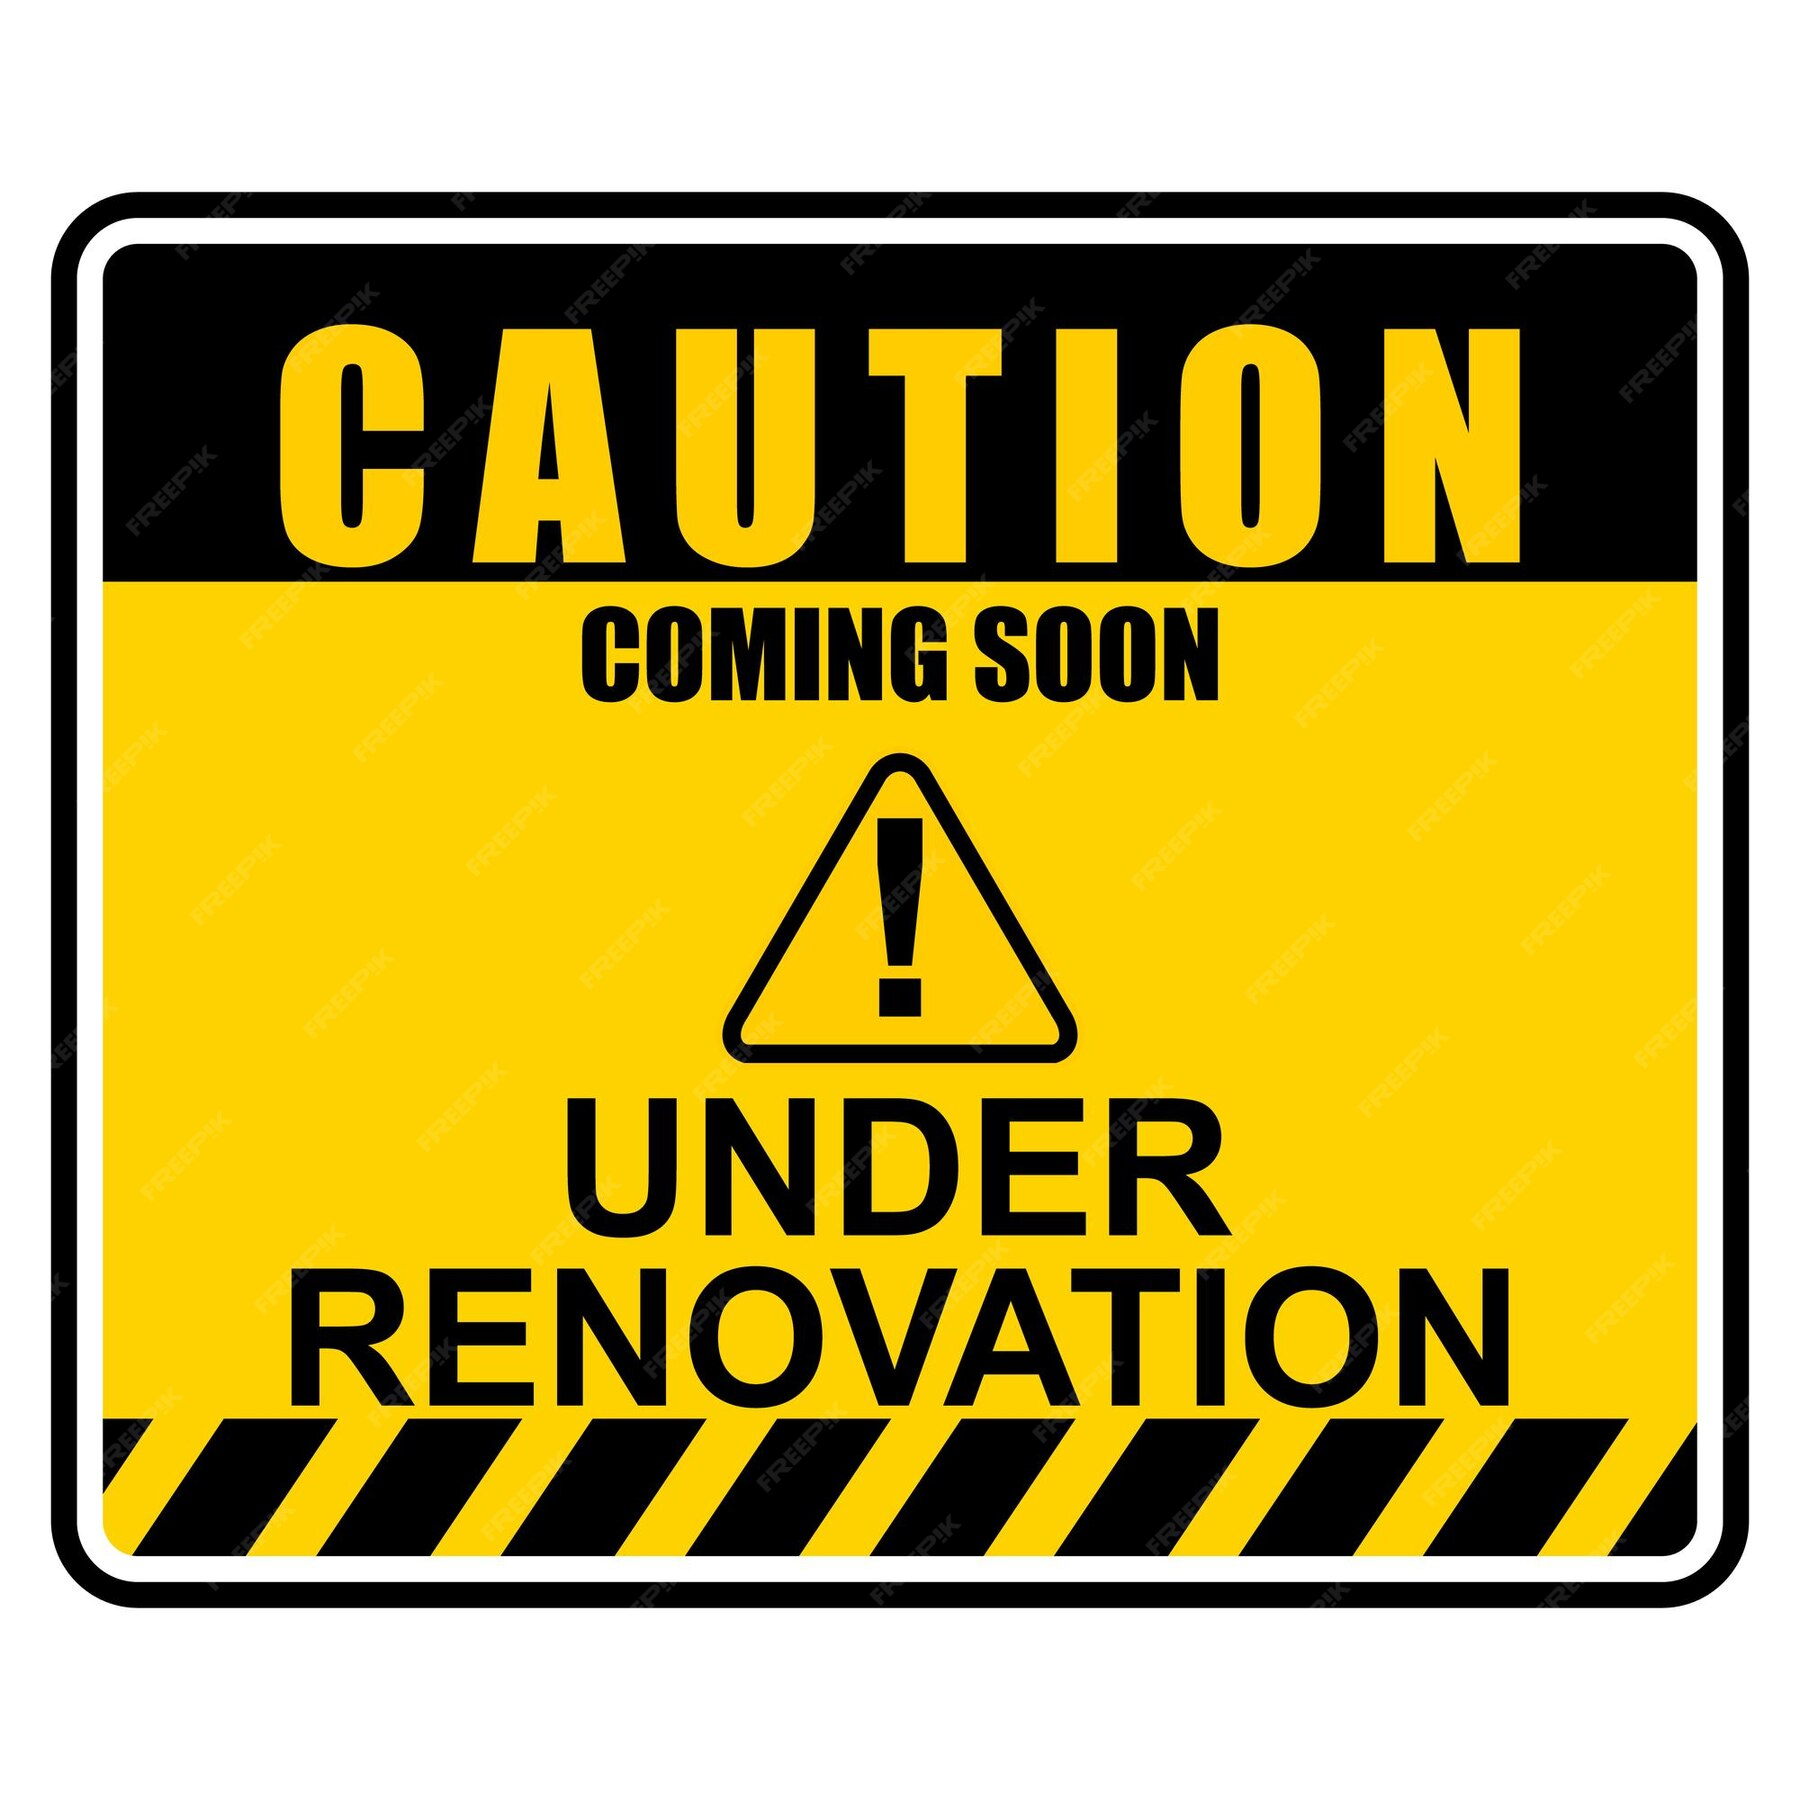
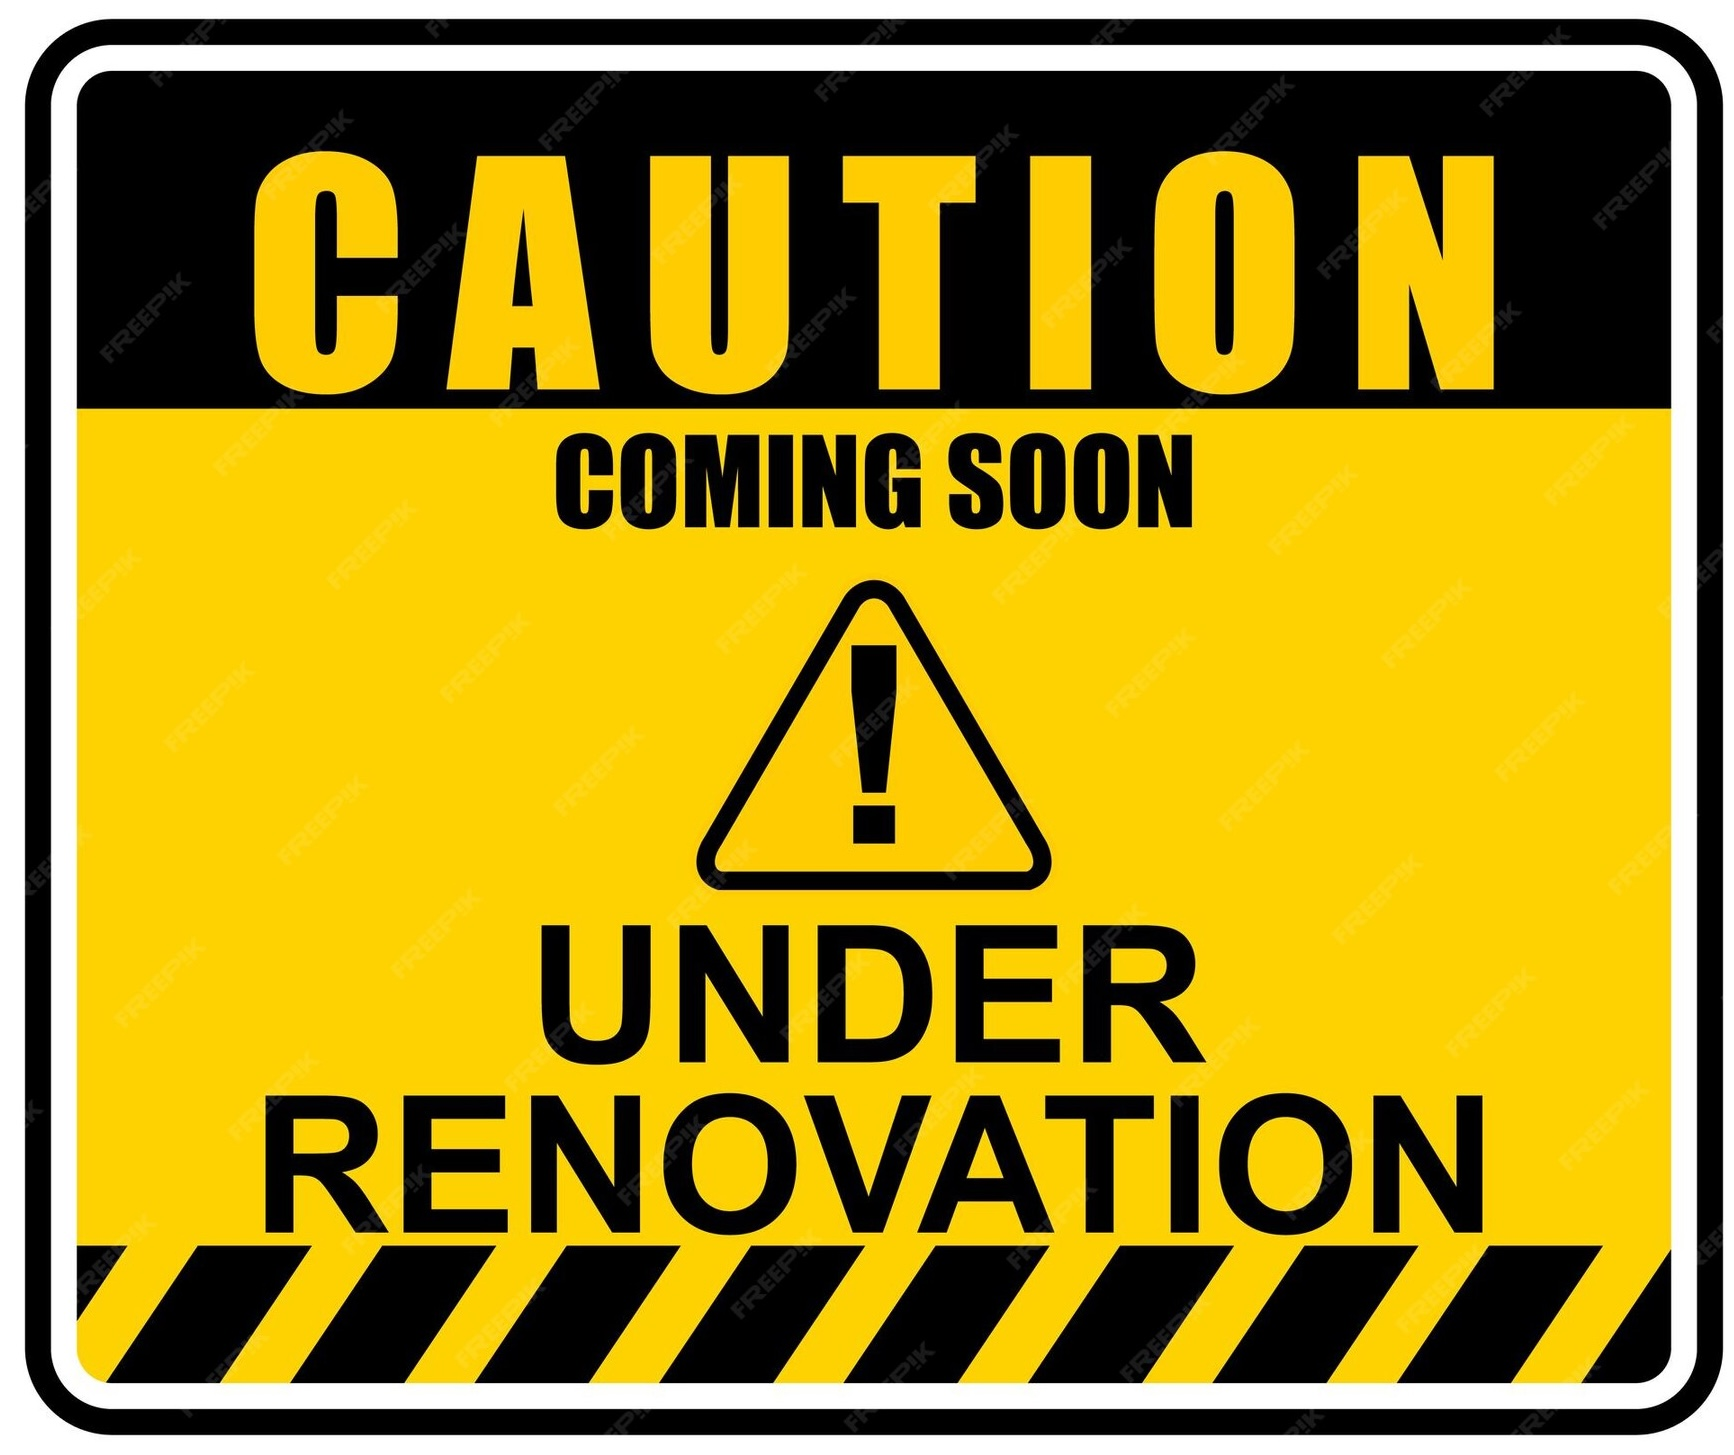
resized image

diff --git a/index.html b/index.html
@@ -1,1 +1,8 @@
-<img src="underRenovation.jpg">
+<IMG id="myImage" src="underRenovation.jpg" >
+<style type="text/css">
+    #myImage {
+        display: block;
+		width: "80%";
+        margin-left: auto;
+        margin-right: auto }
+</style>
